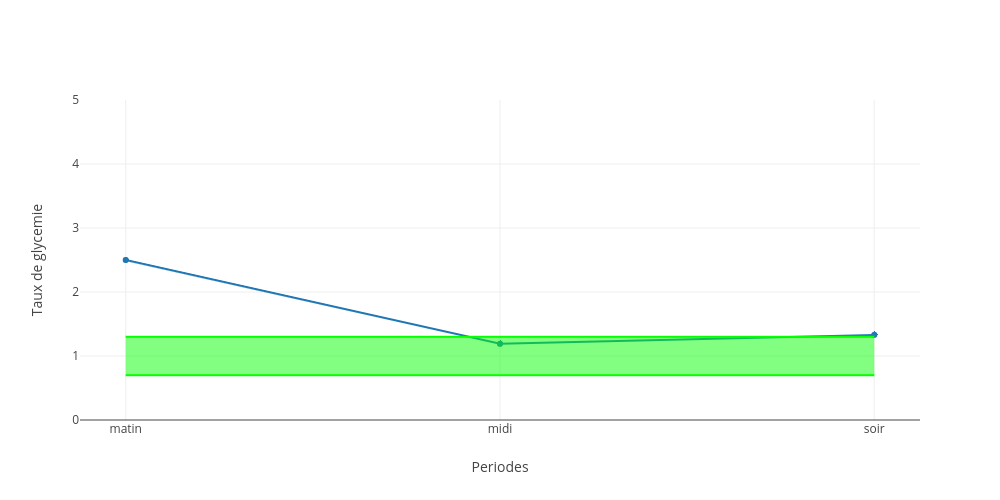
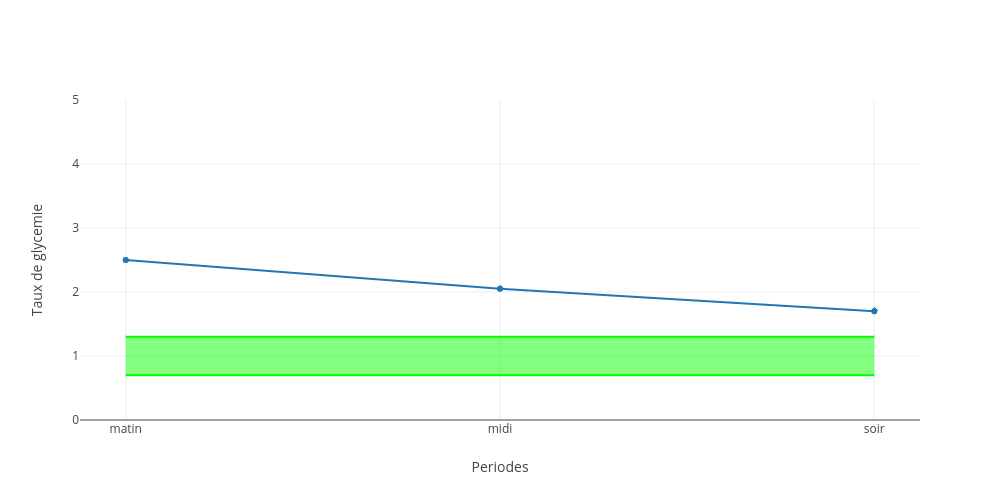
Mise en place d'evenements liés à la glycémie

diff --git a/Jeu/event.js b/Jeu/event.js
@@ -11,6 +11,7 @@ const perso = require("./perso.json");
 const calcul = require("./calcul.js");
 const as = require('./affichageStats.js');
 const config = require("./token.json");
+const eventGly = require("./evenement.json");
 
 const client = new Discord.Client();
 client.login(config.token);
@@ -35,96 +36,195 @@ exports.event = function event(message, partie, tabN, tabE){
 	let fielText = "";
 
 	async function clear() {
-        const fetched = await message.channel.fetchMessages();
-        message.channel.bulkDelete(fetched);
-    }
+		fetched = await message.channel.fetchMessages();
+		message.channel.bulkDelete(fetched);
+	}
 
-    clear()
-    .catch((err) => {
-    	console.log(err)
-    });
+	clear()
+	.catch((err) => {
+		console.log(err)
+	});
 
-
-
-
-  partie.numEvent = (partie.numEvent + 1) % 3;
+	partie.numEvent = (partie.numEvent + 1) % 3;
 	sfm.save(partie.player, partie);
 
-  if(partie.numJour > 0 && partie.partJour == 0 && partie.numEvent == 0){
-    journal(message, partie);
-    calcul.glyMatin(partie);
-  }
+	//Journal et message du docteur en fin de journée
+	if(partie.numJour > 0 && partie.partJour == 0 && partie.numEvent == 0 && partie.evenement){
+		journal(message, partie);
+		calcul.glyMatin(partie);
+	}
 
-    if(partie.nbJour != partie.numJour){
-    	switch(partie.partJour){
-	        case 0:
-	            switch(partie.numEvent){
-                case -1:
-                  eventNumJour(message, partie);
-                  break;
-                case 0:
-                  fieldTitle = "C'est le matin!";
-                  if(partie.tuto)
-                    fieldText = "Chaque matin, vous devez faire votre prise d'insuline et vous pouvez choisir votre petit déjeuner et une activité matinale au choix.";
-                  else
-                    fieldText = "Le soleil se réveille, il fait beau, il faut jour.";
-                  title(message, fieldTitle, fieldText);
-                  consequence(message, partie, tabN, tabE);
-                  eventInsu(message, partie);
-                  break;
-                case 1:
-                  eventRepas(message, tabN, tabE);
-                  break;
-                case 2:
-                  eventSport(message, tabN, tabE);
-                  break;
-	            }
-	            break;
-	        case 1:
-	            switch(partie.numEvent){
-                case 0:
-                  fieldTitle = "C'est l'après-midi!";
-                  if(partie.tuto)
-                    fieldText = "Tous les après-midi, vous devez faire votre prise d'insuline et vous pouvez choisir votre repas et une activité.";
-                  else
-                    fieldText = "Repas, repos, récréation.";
-                  title(message, fieldTitle, fieldText);
-                  eventInsu(message, partie);
-                  break;
-                case 1:
-                    eventRepas(message, tabN, tabE);
-                    break;
-                case 2:
-                    eventSport(message, tabN, tabE);
-                    break;
-	            }
-	            break;
-	        case 2:
-	            switch(partie.numEvent){
-	                case 0:
-                    fieldTitle = "C'est le soir!";
-                    if(partie.tuto)
-                      fieldText = "Tous les soirs, vous devez faire votre prise d'insuline et vous pouvez choisir votre diner et si vous sortez avec des amis.";
-                    else
-                      fieldText = "ZZZzzzzz";
-                    title(message, fieldTitle, fieldText);
-                    eventInsu(message, partie);
-                    break;
-	                case 1:
-	                    eventRepas(message, tabN, tabE);
-	                    break;
-	                case 2:
-	                	  partie.numJour++;
-	                	  sfm.save(partie.player, partie);
-	                    eventSport(message, tabN, tabE);
-	                    break;
-	            }
-	            break;
-    	}
-    }
-    else {
-    	eventFin(message);
-    }
+	//Fin du tuto
+	if(partie.nbJour == partie.numJour){
+		eventFin(message, partie);
+		return;
+	}
+
+	//title + evenement glycemie
+	if(partie.numEvent == 0  && partie.evenement){
+		if(partie.partJour == 0){
+			fieldTitle = "C'est le matin!";
+			if(partie.tuto)
+				fieldText = "Chaque matin, vous devez faire votre prise d'insuline et vous pouvez choisir votre petit déjeuner et une activité matinale au choix.";
+			else
+				fieldText = "Le soleil se réveille, il fait beau, il faut jour.";
+		}
+		else if(partie.partJour == 1){
+			fieldTitle = "C'est l'après-midi!";
+			if(partie.tuto)
+				fieldText = "Tous les après-midi, vous devez faire votre prise d'insuline et vous pouvez choisir votre repas et une activité.";
+			else
+				fieldText = "Repas, repos, récréation.";
+		}
+		else{
+			fieldTitle = "C'est le soir!";
+			if(partie.tuto)
+				fieldText = "Tous les soirs, vous devez faire votre prise d'insuline et vous pouvez choisir votre diner et si vous sortez avec des amis.";
+			else
+				fieldText = "ZZZzzzzz";
+		}
+
+		title(message, fieldTitle, fieldText);
+
+		if(partie.glycemie > 2){		//hyperglycemie
+			let rand = myBot.getRandomInt(5);
+			let title = "";
+			let text = "";
+
+			switch(rand){
+				case 0:
+					title = eventGly.hyper1[0];
+					text = eventGly.hyper1[1];
+					break;
+				case 1:
+					title = eventGly.hyper2[0];
+					text = eventGly.hyper2[1];
+					break;
+				case 2:
+					title = eventGly.hyper3[0];
+					text = eventGly.hyper3[1];
+					break;
+				case 3:
+					title = eventGly.hyper4[0];
+					text = eventGly.hyper4[1];
+					break;
+				case 4:
+					title = eventGly.hyper5[0];
+					text = eventGly.hyper5[1];
+					break;
+			}
+
+			const embed = new Discord.RichEmbed()
+			.setColor(15013890)
+			.addField(title, text)
+
+			message.channel.send({embed})
+			.then(async function (mess) {
+				mess.react('➡');
+			});
+
+			partie.numEvent--;
+			partie.evenement = false;
+			sfm.save(partie.player, partie);
+			return;
+			//mal de tete
+			//fatigue
+			//pipi
+			//soif
+			//tres pipi
+		}
+		else if(partie.glycemie < 0.6){	//hypoglycemie
+			let rand = myBot.getRandomInt(3);
+			let title = "";
+			let text = "";
+
+			switch(rand){
+				case 0:
+					title = eventGly.hypo1[0];
+					text = eventGly.hypo1[1];
+					break;
+				case 1:
+					title = eventGly.hypo2[0];
+					text = eventGly.hypo2[1];
+					break;
+				case 2:
+					title = eventGly.hypo3[0];
+					text = eventGly.hypo3[1];
+					break;
+			}
+
+			const embed = new Discord.RichEmbed()
+			.setColor(15013890)
+			.addField(title, text)
+
+			message.channel.send({embed})
+			.then(async function (mess) {
+				mess.react('➡');
+			});
+
+			partie.numEvent--;
+			partie.evenement = false;
+			sfm.save(partie.player, partie);
+			return;
+			//vertiges
+			//troubles de la visions
+			//malaises
+		}
+		else{
+			//anniv
+			//maladie
+		}
+	}
+
+	//Rotation des evenements
+	if(partie.nbJour != partie.numJour){
+		partie.evenement = true;
+		sfm.save(partie.player, partie);
+		switch(partie.partJour){
+			case 0:
+				switch(partie.numEvent){
+					case 0:
+						//consequence(message, partie, tabN, tabE);
+						eventInsu(message, partie);
+						break;
+					case 1:
+						eventRepas(message, tabN, tabE);
+						break;
+					case 2:
+						eventSport(message, tabN, tabE);
+						break;
+					}
+					break;
+			case 1:
+				switch(partie.numEvent){
+					case 0:
+						eventInsu(message, partie);
+						break;
+					case 1:
+						eventRepas(message, tabN, tabE);
+						break;
+					case 2:
+						eventSport(message, tabN, tabE);
+						break;
+					}
+					break;
+			case 2:
+				switch(partie.numEvent){
+					case 0:
+						eventInsu(message, partie);
+						break;
+					case 1:
+						eventRepas(message, tabN, tabE);
+						break;
+					case 2:
+						partie.numJour++;
+						sfm.save(partie.player, partie);
+						eventSport(message, tabN, tabE);
+						break;
+				}
+				break;
+		}
+	}
 };
 
 //Modification
@@ -152,8 +252,6 @@ function consequence(message, partie, tabN, tabE){
 	}
 	else{
 		message.delete();
-        //event.event(message, partie, tabN, tabE);
-        //tabn et tabe sont ceux de la partie de la journee precedante
 	}
 }
 
@@ -320,7 +418,7 @@ function eventRepas(message, tabN, tabE){
 * Fonction qui écrit le message de fin de partie
 * @param {string} message - Message discord
 **/
-function eventFin(message){
+function eventFin(message, partie){
   if(partie.tuto)
     fieldTextInfo = "J'espère que vous avez apprécié le tutoriel.";
   else
@@ -358,7 +456,7 @@ function title(message, title, text){
 * @param {number} partie.numJour - Numéro du jour
 **/
 function journal(message, partie){
-  const chanId = myBot.messageChannel(message, 'journal', partie);
+	const chanId = myBot.messageChannel(message, 'journal', partie);
 
 	const nbAct = partie.activite.length;
 	const activ = [partie.activite[nbAct-5], partie.activite[nbAct-3], partie.activite[nbAct-1]];

diff --git a/Jeu/myBot.js b/Jeu/myBot.js
@@ -48,7 +48,7 @@ client.on('message', (message) => {
 
       switch(command) {
         case 'start':
-          partie.nbJour = 3;
+          partie.nbJour = -1;
           partie.tuto = false;
           sfm.save(message.author.id, partie);
           initJeu.initJeu(message, client);
@@ -62,6 +62,9 @@ client.on('message', (message) => {
         case 'end':
           finJeu.finJeu(message);
           break;
+        case 'create':
+            finJeu.initStat(message.author);
+            break;
         case 'text':
           text(message);
           break;

diff --git a/Jeu/initJeu.js b/Jeu/initJeu.js
@@ -153,13 +153,14 @@ function initChannelGrp(message, partie, channelGrpName, rolePers) {
 		partie.player = message.author.id;
 		partie.partJour = 0;
 		partie.numJour = 0;
-    	partie.numEvent = -2;
+    	partie.numEvent = -1;
     	partie.choixPerso = 0;
 		partie.insuline = 0;
 		partie.activite = [];
 		partie.impactActivite = [];
 		partie.impactNutrition = [];
 		partie.consequence = [];
+		partie.evenement = true;
 		partie.glycemie = 2.5;
 		partie.tabGlycemie = [2.5];
 		initChannel(message, partie, rolePers, 'Hub', res);
